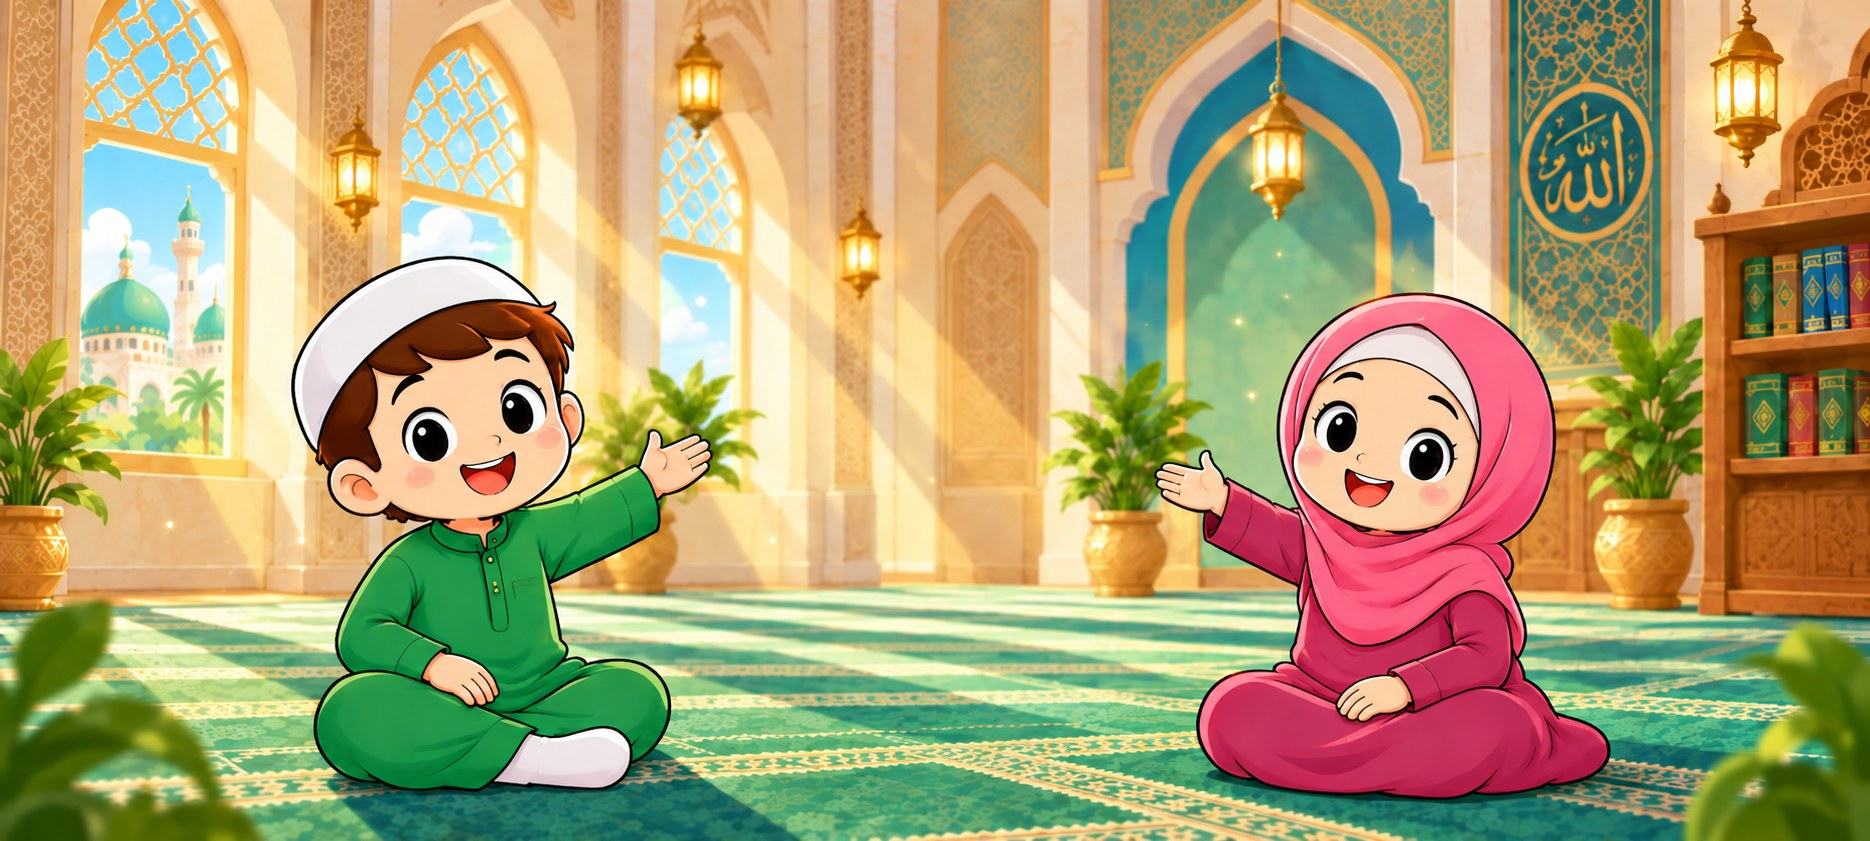
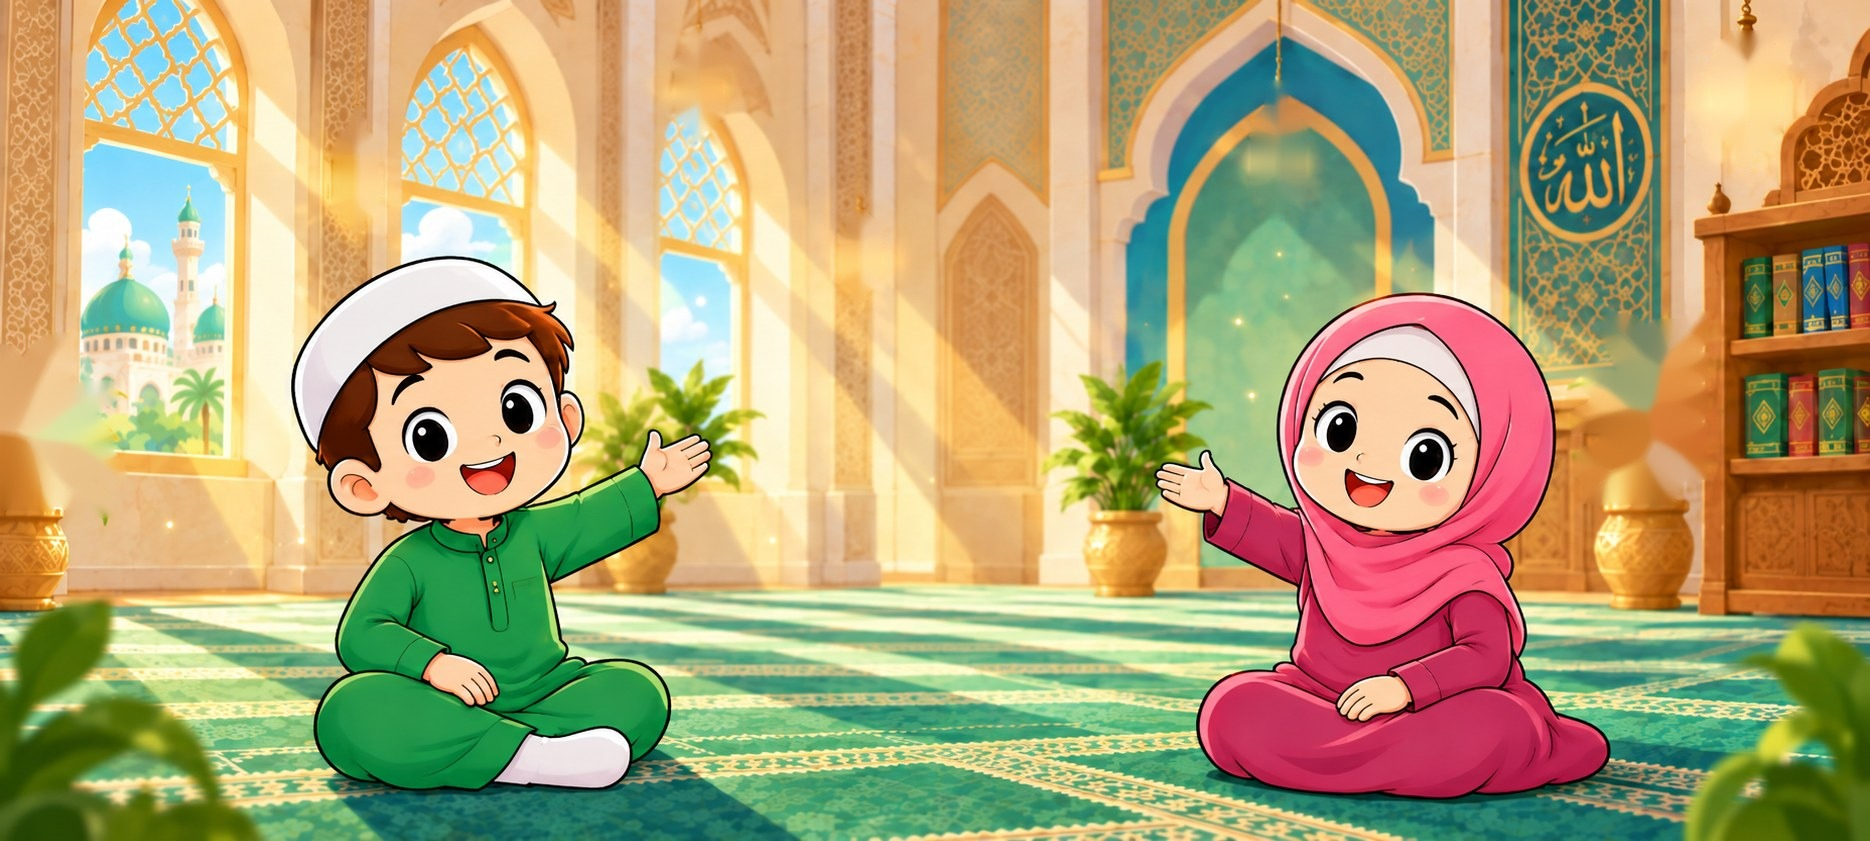
Swing Qur'an Etiquette start lanterns and sway the corner plants
Cut the five lanterns and the two potted plants out of the start art as
sprites over an inpainted background plate. Lanterns swing on their hooks
as pendulums; plants bend on a mesh rooted in their pots.

diff --git a/prjct/lib/ui/core_modules/activities/quran_etiquette_game.dart b/prjct/lib/ui/core_modules/activities/quran_etiquette_game.dart
@@ -62,13 +62,25 @@ const _endInk = Color(0xFF0B5A4B);
 const double _kArtW = 1870;
 const double _kArtH = 841;
 
-/// Where the painted lanterns hang, as fractions of the start art.
-const List<Offset> _kLanterns = [
-  Offset(0.374, 0.09),
-  Offset(0.19, 0.2),
-  Offset(0.46, 0.3),
-  Offset(0.683, 0.18),
-  Offset(0.933, 0.09),
+/// A lantern cut out of the start art: its sprite's box in the art's frame
+/// and the x of the hook it hangs from, on the sprite's top edge.
+class _Lantern {
+  const _Lantern(this.asset, this.left, this.top, this.w, this.h, this.pivotX);
+
+  final String asset;
+  final double left;
+  final double top;
+  final double w;
+  final double h;
+  final double pivotX;
+}
+
+const List<_Lantern> _kLanterns = [
+  _Lantern('lantern_0', 675, 28, 49, 112, 699),
+  _Lantern('lantern_1', 330, 105, 52, 129, 357.5),
+  _Lantern('lantern_2', 840, 209, 43, 92, 862),
+  _Lantern('lantern_3', 1250, 80, 57, 141, 1278),
+  _Lantern('lantern_4', 1710, 30, 73, 139, 1747),
 ];
 
 /// Centres of the Star Meter tile's five sockets, as fractions of its width.
@@ -543,7 +555,6 @@ class _QuranEtiquetteGameState extends State<QuranEtiquetteGame>
             children: [
               Positioned.fill(child: _startBackground()),
               for (var i = 0; i < _kRays.length; i++) _startRay(i),
-              for (final g in _kLanterns) _lanternGlow(g),
               Positioned.fill(
                 child: IgnorePointer(
                   child: _fx((t) => CustomPaint(painter: _MotesPainter(t))),
@@ -573,18 +584,28 @@ class _QuranEtiquetteGameState extends State<QuranEtiquetteGame>
     );
   }
 
-  /// Focus-pull in (zoom out of a soft blur), then holds still.
+  /// Focus-pull in (zoom out of a soft blur), then holds still. The
+  /// lanterns and the two corner plants are cut out of the art, so they
+  /// ride the same focus-pull while they swing and sway.
   Widget _startBackground() {
-    final img = Image.asset(
-      '$_kA/start_bg.jpg',
-      width: _kArtW,
-      height: _kArtH,
-      fit: BoxFit.cover,
-      gaplessPlayback: true,
+    final scene = Stack(
+      clipBehavior: Clip.none,
+      children: [
+        Image.asset(
+          '$_kA/start_bg.jpg',
+          width: _kArtW,
+          height: _kArtH,
+          fit: BoxFit.cover,
+          gaplessPlayback: true,
+        ),
+        for (var i = 0; i < _kLanterns.length; i++) _lantern(i),
+        _plant(left: true),
+        _plant(left: false),
+      ],
     );
     return _fx((t) {
       final p = _sceneCurve.transform(_once(t, 1.1));
-      if (p >= 1) return img;
+      if (p >= 1) return scene;
       final blur = 6 * (1 - p);
       return ImageFiltered(
         imageFilter: ui.ImageFilter.blur(
@@ -592,9 +613,95 @@ class _QuranEtiquetteGameState extends State<QuranEtiquetteGame>
           sigmaY: blur,
           tileMode: TileMode.clamp,
         ),
-        child: Transform.scale(scale: 1.1 - 0.1 * p, child: img),
+        child: Transform.scale(scale: 1.1 - 0.1 * p, child: scene),
       );
     });
+  }
+
+  /// A hanging lantern swinging on its hook like a pendulum, at the period
+  /// its length gives it. The swing eases up from rest, with a slow draught
+  /// and a faint overtone layered on so no two swings match.
+  Widget _lantern(int i) {
+    final l = _kLanterns[i];
+    // T = 2*pi*sqrt(L/g), reading the art at ~100px to the metre.
+    final period = 2 * math.pi * math.sqrt(l.h * 0.6 / 100 / 9.81);
+    const amp = 2.6 * _deg;
+    final phase = i * 1.9;
+    final hangX = l.pivotX - l.left;
+    final sprite = Image.asset(
+      '$_kA/${l.asset}.png',
+      width: l.w,
+      height: l.h,
+      fit: BoxFit.fill,
+      gaplessPlayback: true,
+    );
+    return Positioned(
+      left: l.left,
+      top: l.top,
+      width: l.w,
+      height: l.h,
+      child: IgnorePointer(
+        child: _fx((t) {
+          final w = 2 * math.pi / period;
+          final draught = 1 + 0.25 * math.sin(t * 0.37 + phase);
+          final swing =
+              math.sin(w * t + phase) * draught +
+              0.12 * math.sin(w * 2.7 * t + phase * 1.3);
+          final ramp = _easeInOut.transform(_once(t, 2.5, 0.6));
+          final flicker = _loop(t - (l.pivotX * 0.0039) % 1.4, 2.6);
+          const stops = [0.0, 0.4, 0.7, 1.0];
+          final o = _kf(flicker, stops, [0.55, 0.95, 0.7, 0.55], _easeInOut);
+          final s = _kf(flicker, stops, [0.92, 1.05, 0.98, 0.92], _easeInOut);
+          return Transform.rotate(
+            angle: amp * ramp * swing,
+            origin: Offset(hangX - l.w / 2, -l.h / 2),
+            child: Stack(
+              clipBehavior: Clip.none,
+              children: [
+                Positioned.fill(child: sprite),
+                Positioned(
+                  left: l.w / 2 - 75,
+                  top: l.h * 0.5 - 75,
+                  width: 150,
+                  height: 150,
+                  child: Opacity(
+                    opacity: o * _once(t, 0.8, 0.3),
+                    child: Transform.scale(scale: s, child: const _Glow()),
+                  ),
+                ),
+              ],
+            ),
+          );
+        }),
+      ),
+    );
+  }
+
+  /// A potted plant by the wall, rooted in its pot: an indoor draught sways
+  /// it slowly with the odd stronger breath, the stems bending more toward
+  /// the tips, and each leaf flutters a little out of step with the next.
+  Widget _plant({required bool left}) {
+    final phase = left ? 0.0 : 2.4;
+    return Positioned(
+      left: left ? 0 : 1574,
+      top: left ? 337 : 316,
+      width: left ? 123 : 131,
+      height: left ? 177 : 185,
+      child: IgnorePointer(
+        child: _fx((t) {
+          final gust = math.pow(_wave(t + phase * 3, 9.5), 3).toDouble();
+          final sway =
+              0.6 * math.sin(2 * math.pi * t / 4.6 + phase) +
+              0.3 * math.sin(2 * math.pi * t / 2.1 + phase * 1.7);
+          return _BendSprite(
+            asset: left ? '$_kA/plant_left.png' : '$_kA/plant_right.png',
+            bend: (sway * (1 + gust) + 0.7 * gust) * (left ? 1 : -1) * 0.035,
+            flutter: 0.012 * (0.4 + gust),
+            t: t + phase,
+          );
+        }),
+      ),
+    );
   }
 
   /// A soft sunbeam slanting in through the left windows, fading in and out.
@@ -619,28 +726,6 @@ class _QuranEtiquetteGameState extends State<QuranEtiquetteGame>
             );
           }),
         ),
-      ),
-    );
-  }
-
-  Widget _lanternGlow(Offset at) {
-    final delay = (at.dx * 7.3) % 1.4;
-    return Positioned(
-      left: at.dx * _kArtW - 75,
-      top: at.dy * _kArtH - 75,
-      width: 150,
-      height: 150,
-      child: IgnorePointer(
-        child: _fx((t) {
-          final p = _loop(t - delay, 2.6);
-          const stops = [0.0, 0.4, 0.7, 1.0];
-          final o = _kf(p, stops, [0.55, 0.95, 0.7, 0.55], _easeInOut);
-          final s = _kf(p, stops, [0.92, 1.05, 0.98, 0.92], _easeInOut);
-          return Opacity(
-            opacity: o * _once(t, 0.8, 0.3),
-            child: Transform.scale(scale: s, child: const _Glow()),
-          );
-        }),
       ),
     );
   }
@@ -2070,6 +2155,122 @@ class _RayPainter extends CustomPainter {
 
   @override
   bool shouldRepaint(_RayPainter old) => false;
+}
+
+/// A sprite drawn on a mesh so it can bend like a plant rooted at its
+/// bottom edge: each point shifts sideways by [bend] times the sprite's
+/// height, weighted toward the tips, dipping a touch as it leans, with a
+/// small per-column [flutter] out of phase across the width.
+class _BendSprite extends StatefulWidget {
+  const _BendSprite({
+    required this.asset,
+    required this.bend,
+    required this.flutter,
+    required this.t,
+  });
+
+  final String asset;
+  final double bend;
+  final double flutter;
+  final double t;
+
+  @override
+  State<_BendSprite> createState() => _BendSpriteState();
+}
+
+class _BendSpriteState extends State<_BendSprite> {
+  ImageStream? _stream;
+  ui.Image? _image;
+  late final _listener = ImageStreamListener(
+    (info, _) => setState(() => _image = info.image),
+  );
+
+  @override
+  void didChangeDependencies() {
+    super.didChangeDependencies();
+    _stream?.removeListener(_listener);
+    _stream = AssetImage(
+      widget.asset,
+    ).resolve(createLocalImageConfiguration(context))..addListener(_listener);
+  }
+
+  @override
+  void dispose() {
+    _stream?.removeListener(_listener);
+    super.dispose();
+  }
+
+  @override
+  Widget build(BuildContext context) {
+    final image = _image;
+    if (image == null) return const SizedBox.expand();
+    return CustomPaint(
+      size: Size.infinite,
+      painter: _BendPainter(image, widget.bend, widget.flutter, widget.t),
+    );
+  }
+}
+
+class _BendPainter extends CustomPainter {
+  _BendPainter(this.image, this.bend, this.flutter, this.t);
+
+  final ui.Image image;
+  final double bend;
+  final double flutter;
+  final double t;
+
+  static const int _cols = 6;
+  static const int _rows = 10;
+
+  @override
+  void paint(Canvas canvas, Size size) {
+    final pos = <Offset>[];
+    final tex = <Offset>[];
+    Offset at(int c, int r) {
+      final u = c / _cols;
+      final v = r / _rows;
+      final lift = math.pow(1 - v, 1.7).toDouble();
+      final wave = math.sin(t * 2 * math.pi / 1.3 + u * 3.1 + v * 1.7);
+      final dx = (bend + flutter * wave * lift) * lift * size.height;
+      return Offset(u * size.width + dx, v * size.height + dx.abs() * 0.15);
+    }
+
+    for (var r = 0; r < _rows; r++) {
+      for (var c = 0; c < _cols; c++) {
+        final quad = [at(c, r), at(c + 1, r), at(c, r + 1), at(c + 1, r + 1)];
+        final uv = [
+          Offset(c / _cols, r / _rows),
+          Offset((c + 1) / _cols, r / _rows),
+          Offset(c / _cols, (r + 1) / _rows),
+          Offset((c + 1) / _cols, (r + 1) / _rows),
+        ];
+        for (final k in const [0, 1, 2, 1, 3, 2]) {
+          pos.add(quad[k]);
+          tex.add(Offset(uv[k].dx * image.width, uv[k].dy * image.height));
+        }
+      }
+    }
+    final paint = Paint()
+      ..filterQuality = FilterQuality.medium
+      ..shader = ImageShader(
+        image,
+        TileMode.clamp,
+        TileMode.clamp,
+        Matrix4.identity().storage,
+      );
+    canvas.drawVertices(
+      ui.Vertices(VertexMode.triangles, pos, textureCoordinates: tex),
+      BlendMode.srcOver,
+      paint,
+    );
+  }
+
+  @override
+  bool shouldRepaint(_BendPainter old) =>
+      old.image != image ||
+      old.bend != bend ||
+      old.flutter != flutter ||
+      old.t != t;
 }
 
 /// A lantern's warm halo.
